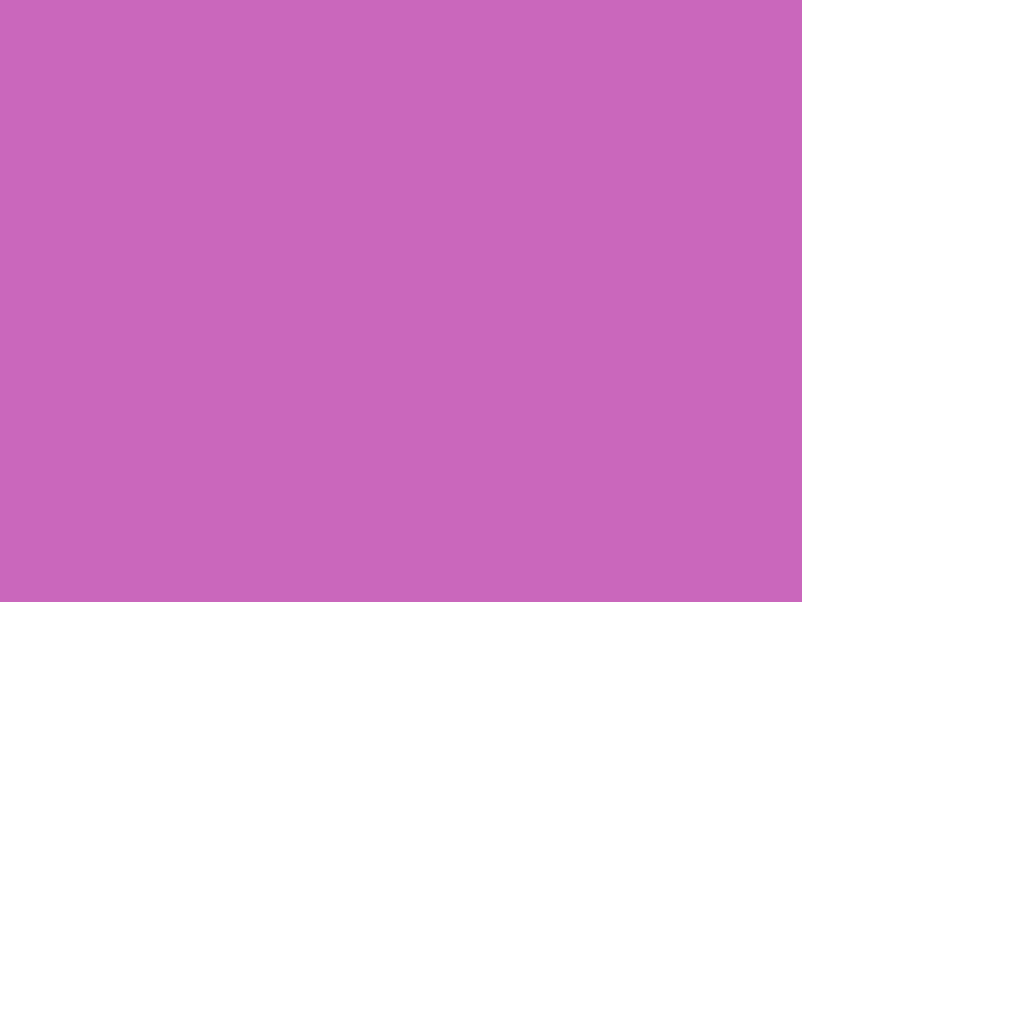
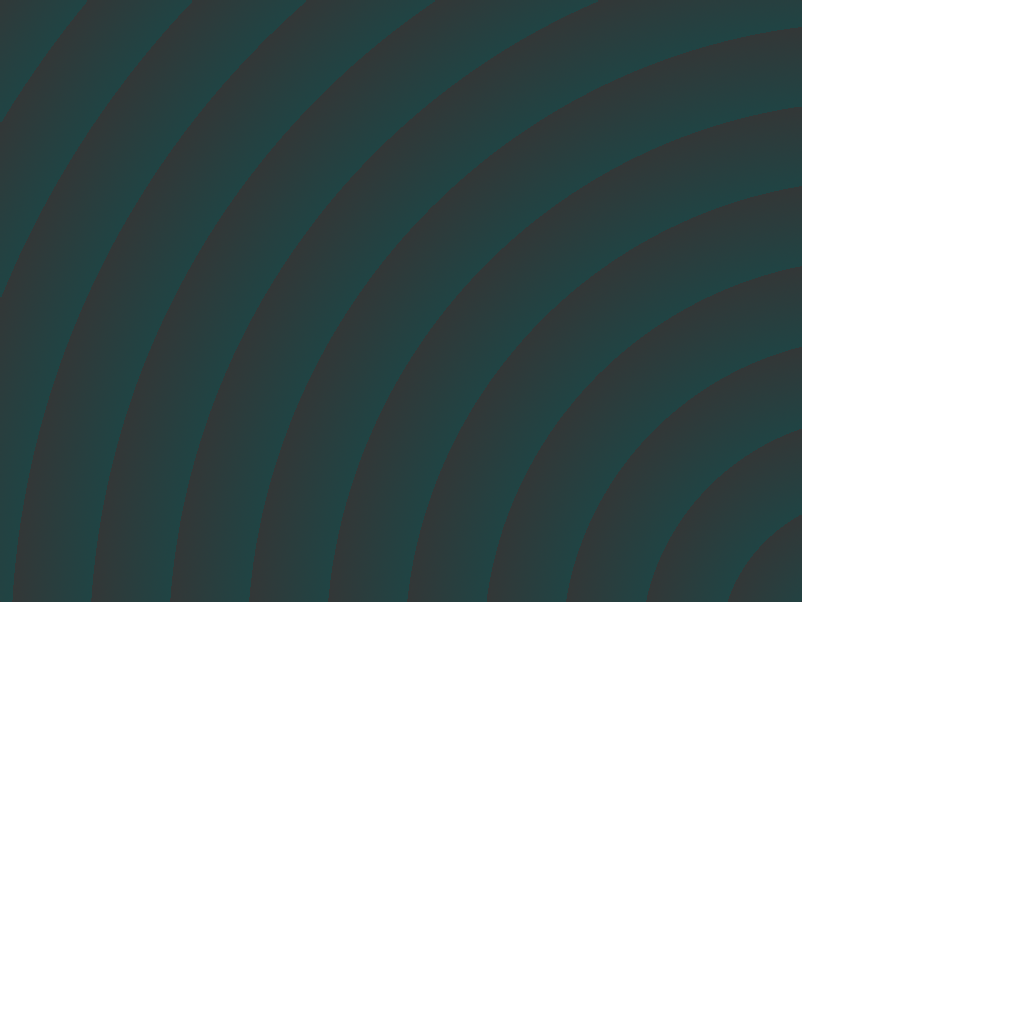
Graphic rework and start implementing lives

diff --git a/core/src/com/jashlaviu/multiblax/MultiblaxScreen.java b/core/src/com/jashlaviu/multiblax/MultiblaxScreen.java
@@ -31,6 +31,7 @@ public class MultiblaxScreen extends ScreenAdapter{
     private Array<ShootLong> shoots;
 
     private float shootTimer = 0;
+    private int lives;
 
     public ShapeRenderer shaper = new ShapeRenderer();
 
@@ -39,35 +40,9 @@ public class MultiblaxScreen extends ScreenAdapter{
         camera = new OrthographicCamera();
         stage = new Stage(new FitViewport(800, 600, camera), batch);
 
-        player = new Player(100f, 390f);
-        ball = new Ball(300, 400, Ball.SIZE_3);
-        ball.setVelocityX(200);
-
-        ball2 = new Ball(400, 300, Ball.SIZE_3);
-        ball2.setVelocityX(-200);
+        lives = 5;
+        resetLevel();
         
-        ball3 = new Ball(500, 200, Ball.SIZE_3);
-        ball3.setVelocityX(200);
-        
-        ball4 = new Ball(200, 200, Ball.SIZE_3);
-        ball4.setVelocityX(200);
-
-        balls = new Array<Ball>();
-        shoots = new Array<ShootLong>();
-
-        balls.add(ball);
-        balls.add(ball2);
-        balls.add(ball3);
-        balls.add(ball4);
-
-
-        floor = new Wall(0, 0, Wall.FLOOR);
-        roof = new Wall(0, 520, Wall.ROOF);
-        wallLeft = new Wall(-40, 80, Wall.SIDE_LEFT);
-        wallRight = new Wall(760, 80, Wall.SIDE_RIGHT);
-
-        addActorsToStage();
-
         inputHandler = new InputHandler(this);
         Gdx.input.setInputProcessor(inputHandler);
 
@@ -94,7 +69,45 @@ public class MultiblaxScreen extends ScreenAdapter{
       //  shaper.rect(b1Bounds.x, b1Bounds.y, b1Bounds.width, b1Bounds.height);
         shaper.end();
         
+        
+        stage.getBatch().begin();
+        for(int i = 0; i < lives; i++){
+        	stage.getBatch().draw(TextureLoader.hearth, 50 + i*50, 550);
+        }
+        stage.getBatch().end();
+        
         movePlayer();
+    }
+    
+    
+    public void resetLevel(){
+        floor = new Wall(0, 0, Wall.FLOOR);
+        roof = new Wall(0, 520, Wall.ROOF);
+        wallLeft = new Wall(-40, 80, Wall.SIDE_LEFT);
+        wallRight = new Wall(760, 80, Wall.SIDE_RIGHT);
+        
+        player = new Player(200f, 100);
+        ball = new Ball(300, 400, Ball.SIZE_3);
+        ball.setVelocityX(200);
+
+        ball2 = new Ball(400, 300, Ball.SIZE_3);
+        ball2.setVelocityX(-200);
+        
+        ball3 = new Ball(500, 200, Ball.SIZE_3);
+        ball3.setVelocityX(200);
+        
+        ball4 = new Ball(200, 200, Ball.SIZE_3);
+        ball4.setVelocityX(200);
+
+        balls = new Array<Ball>();
+        shoots = new Array<ShootLong>();
+
+        balls.add(ball);
+        balls.add(ball2);
+        balls.add(ball3);
+        //balls.add(ball4);
+        
+        addActorsToStage();
     }
     
     public void divideBall(Ball ball, Rectangle shootBounds){
@@ -179,6 +192,7 @@ public class MultiblaxScreen extends ScreenAdapter{
             Iterator<Ball> ballIterator = balls.iterator();
             while(ballIterator.hasNext()){
             	Ball ball = ballIterator.next();
+            	
             	if(shoot.collides(ball)){
             		ballIterator.remove();
             		divideBall(ball, shootBounds);
@@ -219,6 +233,12 @@ public class MultiblaxScreen extends ScreenAdapter{
                         - bBounds.width
                         - ball.getCollisionOffsetX()));
                 ball.bounceX();
+            }
+            
+            if(ball.collides(player)){
+            	lives--;
+            	resetLevel();
+            	break;
             }
         }
     }

diff --git a/core/src/com/jashlaviu/multiblax/TextureLoader.java b/core/src/com/jashlaviu/multiblax/TextureLoader.java
@@ -14,22 +14,25 @@ public class TextureLoader {
     public static TextureRegion playerNormal;
     public static TextureRegion ballBlueBig, ballBlueMedium, ballBlueSmall;
     public static TextureRegion background1, floor, wall;
+    public static TextureRegion hearth;
     
     public TextureLoader(){
     	atlas = new TextureAtlas(Gdx.files.internal("multiblax_atlas.atlas"));
     	
     	noTexture = atlas.findRegion("error_texture");
     	
-    	shootLongNormal = atlas.findRegion("shoot_long", 5);
-    	playerNormal = atlas.findRegion("player", 1);
+    	shootLongNormal = atlas.findRegion("shoot_long", 6);
+    	playerNormal = atlas.findRegion("player", 2);
     	
-    	ballBlueBig = atlas.findRegion("ball_01", 3);
-    	ballBlueMedium = atlas.findRegion("ball_01", 2);
-    	ballBlueSmall = atlas.findRegion("ball_01", 1);
+    	hearth = atlas.findRegion("hearth", 1);
     	
-    	background1 = atlas.findRegion("background", 1);
-    	floor = atlas.findRegion("floor", 1);
-    	wall = atlas.findRegion("wall", 1);
+    	ballBlueBig = atlas.findRegion("ball_02", 3);
+    	ballBlueMedium = atlas.findRegion("ball_02", 2);
+    	ballBlueSmall = atlas.findRegion("ball_02", 1);
+    	
+    	background1 = atlas.findRegion("background", 2);
+    	floor = atlas.findRegion("floor", 2);
+    	wall = atlas.findRegion("wall", 2);
     }
 
     public void dispose(){
